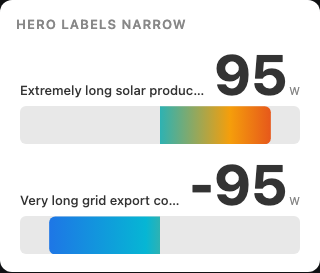
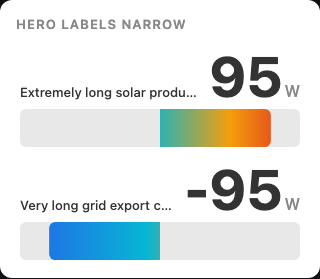
Improve hero value fitting and resize behavior

diff --git a/src/card/SensorBarCard.js b/src/card/SensorBarCard.js
@@ -1545,21 +1545,32 @@ _getAboveTargetLayerGeometry(targetPct = null) {
           font-variant-numeric: tabular-nums;
         }
         .hero-line {
-          --sbcp-hero-min-value-size: 13px;
+          --sbcp-hero-min-value-size: 10px;
           min-width: 0;
           margin-bottom: 0;
         }
         .hero-header {
           display: grid;
-          grid-template-columns: minmax(0, 1fr) auto;
+          grid-template-columns: minmax(0, 1fr) minmax(0, auto);
           align-items: baseline;
           column-gap: var(--sbcp-main-gap);
           min-width: 0;
+          overflow: hidden;
           margin-bottom: clamp(2px, calc(var(--sbcp-row-height) * 0.08), 4px);
         }
         .hero-header[data-hide-name="true"] .hero-label,
         .hero-header[data-priority-hide-name="true"] .hero-label {
           display: none;
+        }
+        .hero-header[data-hide-name="true"],
+        .hero-header[data-priority-hide-name="true"] {
+          grid-template-columns: minmax(0, 1fr);
+        }
+        .hero-header[data-hide-name="true"] .hero-value,
+        .hero-header[data-priority-hide-name="true"] .hero-value {
+          grid-column: 1 / -1;
+          justify-self: stretch;
+          width: 100%;
         }
         .hero-label {
           min-width: 0;
@@ -1569,13 +1580,13 @@ _getAboveTargetLayerGeometry(targetPct = null) {
           line-height: 1.15;
         }
         .hero-value {
-          min-width: max-content;
+          min-width: 0;
           max-width: 100%;
           display: inline-flex;
           align-items: baseline;
           justify-content: flex-end;
           justify-self: end;
-          overflow: visible;
+          overflow: hidden;
           font-size: 56px;
           font-size: clamp(var(--sbcp-hero-min-value-size), calc(var(--sbcp-row-height) + 18px), 56px);
           font-weight: 700;
@@ -1596,15 +1607,31 @@ _getAboveTargetLayerGeometry(targetPct = null) {
         .hero-line[data-hero-density="compressed"] .hero-value {
           font-size: clamp(var(--sbcp-hero-min-value-size), calc(var(--sbcp-row-height) + 2px), 24px);
         }
+        .hero-line[data-hero-density="xs"] .hero-value {
+          font-size: clamp(var(--sbcp-hero-min-value-size), calc(var(--sbcp-row-height) - 10px), 16px);
+        }
+        .hero-line[data-hero-value-fit="tight"] .hero-value {
+          font-size: clamp(var(--sbcp-hero-min-value-size), calc(var(--sbcp-row-height) - 4px), 22px);
+        }
+        .hero-line[data-hero-value-fit="minimum"] .hero-value {
+          font-size: clamp(9px, calc(var(--sbcp-row-height) - 14px), 15px);
+        }
+        .hero-line[data-hero-value-fit="hidden"] .hero-value {
+          display: none;
+        }
+        .hero-line[data-hide-hero-unit="true"] .hero-value .unit-group {
+          display: none;
+        }
         .hero-value .value-right-text {
           display: inline-flex;
-          flex: 0 0 auto;
+          flex: 1 1 auto;
           justify-content: flex-end;
           gap: 4px;
           align-items: baseline;
-          width: auto;
+          width: 100%;
+          min-width: 0;
           max-width: 100%;
-          overflow: visible;
+          overflow: hidden;
           text-overflow: clip;
           white-space: nowrap;
         }
@@ -1612,8 +1639,9 @@ _getAboveTargetLayerGeometry(targetPct = null) {
           gap: 2px;
         }
         .hero-value .value-right-number {
-          flex: 0 0 auto;
-          overflow: visible;
+          flex: 0 1 auto;
+          min-width: 0;
+          overflow: hidden;
           text-overflow: clip;
           white-space: nowrap;
           line-height: 0.95;
@@ -1626,16 +1654,12 @@ _getAboveTargetLayerGeometry(targetPct = null) {
           text-overflow: clip;
         }
         .hero-value .unit {
-          font-size: max(16px, 0.5em);
+          font-size: clamp(10px, 0.42em, 16px);
           font-weight: 500;
           color: var(--secondary-text-color, #888);
           line-height: 1;
           overflow: visible;
           text-overflow: clip;
-        }
-        .hero-header[data-hide-name="true"] .hero-value,
-        .hero-header[data-priority-hide-name="true"] .hero-value {
-          max-width: 100%;
         }
         /* ── Shared marker base ── */
         .peak-marker, .target-marker {
@@ -1779,8 +1803,7 @@ _getAboveTargetLayerGeometry(targetPct = null) {
         }
         .value-right .unit-group,
         .top-right-value .unit-group,
-        .above-bar-label-value .unit-group,
-        .hero-value .unit-group {
+        .above-bar-label-value .unit-group {
           flex: 0 1 auto;
           display: inline-flex;
           align-items: baseline;
@@ -1791,8 +1814,7 @@ _getAboveTargetLayerGeometry(targetPct = null) {
         }
         .value-right .unit,
         .top-right-value .unit,
-        .above-bar-label-value .unit,
-        .hero-value .unit {
+        .above-bar-label-value .unit {
           flex: 0 1 auto;
           min-width: 0;
           display: inline-block;
@@ -1843,7 +1865,7 @@ _getAboveTargetLayerGeometry(targetPct = null) {
     this._disconnectResizeObserver();
     this._resizeObserver = new ResizeObserver(() => {
       this._applyCompactTier();
-      this._runPostLayoutPasses();
+      this._schedulePostLayoutDensityPass();
     });
 
     const surface = this.shadowRoot.querySelector('ha-card');
@@ -1851,6 +1873,7 @@ _getAboveTargetLayerGeometry(targetPct = null) {
     if (surface && card) {
       this._applyCompactTier();
       this._resizeObserver.observe(surface);
+      this._resizeObserver.observe(this);
     }
     this._update();
     this._schedulePostLayoutDensityPass();
@@ -2056,18 +2079,107 @@ _getAboveTargetLayerGeometry(targetPct = null) {
       if (!label) return;
       const width = label.getBoundingClientRect().width;
       let density = 'normal';
-      if (width < 110) density = 'compressed';
+      if (width < 90) density = 'xs';
+      else if (width < 110) density = 'compressed';
       else if (width < 150) density = 'dense';
       else if (width < 210) density = 'tight';
       else if (width < 280) density = 'compact';
       if (aboveLine.classList.contains('hero-line')) {
         aboveLine.dataset.heroDensity = density;
-        label.dataset.hideName = density === 'dense' || density === 'compressed' ? 'true' : 'false';
-        aboveLine.dataset.hideHeroIcon = density === 'compressed' ? 'true' : 'false';
+        label.dataset.hideName = density === 'dense' || density === 'compressed' || density === 'xs' ? 'true' : 'false';
+        aboveLine.dataset.hideHeroIcon = density === 'compressed' || density === 'xs' ? 'true' : 'false';
         return;
       }
       aboveLine.dataset.aboveDensity = density;
       label.dataset.hideName = density === 'dense' || density === 'compressed' ? 'true' : 'false';
+    });
+  }
+
+  _measureHeroValueWidth(heroLine, valueEl, valueFit = 'normal', hideUnit = false) {
+    const layer = this.shadowRoot?.querySelector('.measure-layer');
+    if (!layer || !heroLine || !valueEl) return 0;
+
+    const display = this._decodeDataAttr(valueEl.dataset.display || valueEl.textContent || '');
+    const unit = this._decodeDataAttr(valueEl.dataset.unit || '');
+    if (!display) return 0;
+
+    const wrapper = document.createElement('div');
+    wrapper.className = 'hero-line';
+    wrapper.dataset.heroDensity = heroLine.dataset.heroDensity || 'normal';
+    wrapper.dataset.heroValueFit = valueFit;
+    wrapper.dataset.hideHeroUnit = hideUnit ? 'true' : 'false';
+    wrapper.style.display = 'inline-block';
+
+    const measureValue = document.createElement('span');
+    measureValue.className = 'hero-value';
+    measureValue.innerHTML = this._formatRightValueMarkup(display, unit, hideUnit);
+    measureValue.style.display = 'inline-flex';
+    measureValue.style.flex = '0 0 auto';
+    measureValue.style.width = 'auto';
+    measureValue.style.maxWidth = 'none';
+    measureValue.style.overflow = 'visible';
+
+    wrapper.appendChild(measureValue);
+    layer.replaceChildren(wrapper);
+
+    const text = measureValue.querySelector('.value-right-text');
+    return Math.max(
+      Math.ceil(measureValue.getBoundingClientRect?.().width ?? 0),
+      Math.ceil(measureValue.scrollWidth || 0),
+      Math.ceil(text?.getBoundingClientRect?.().width ?? text?.scrollWidth ?? 0),
+    );
+  }
+
+  _applyHeroValueFit() {
+    if (!this.shadowRoot) return;
+    this.shadowRoot.querySelectorAll('.hero-line').forEach(heroLine => {
+      const headerEl = heroLine.querySelector('.hero-header');
+      const labelEl = heroLine.querySelector('.hero-label');
+      const valueEl = heroLine.querySelector('.hero-value');
+      const unitGroup = heroLine.querySelector('.unit-group');
+      if (!headerEl || !valueEl) return;
+
+      heroLine.dataset.hideHeroUnit = 'false';
+      heroLine.dataset.heroValueFit = 'normal';
+
+      const headerWidth = Math.floor(headerEl.getBoundingClientRect?.().width ?? 0);
+      if (!this._isReliableWidth(headerWidth, 8)) {
+        this._schedulePostLayoutDensityPass();
+        return;
+      }
+
+      const labelHidden = headerEl.dataset.hideName === 'true' || headerEl.dataset.priorityHideName === 'true';
+      const labelWidth = !labelHidden && labelEl
+        ? Math.ceil(labelEl.getBoundingClientRect?.().width ?? 0)
+        : 0;
+      const gap = !labelHidden && labelEl ? this._getNumericStyleValue(headerEl, 'column-gap', 0) : 0;
+      const availableWidth = Math.max(0, headerWidth - labelWidth - gap - 4);
+
+      const hasUnit = !!unitGroup && unitGroup.textContent.trim().length > 0;
+
+      if (!this._isReliableWidth(availableWidth, 8)) {
+        heroLine.dataset.hideHeroUnit = hasUnit ? 'true' : 'false';
+        heroLine.dataset.heroValueFit = 'minimum';
+        this._schedulePostLayoutDensityPass();
+        return;
+      }
+
+      if (this._measureHeroValueWidth(heroLine, valueEl, 'normal', false) <= availableWidth) return;
+
+      heroLine.dataset.heroValueFit = 'tight';
+      if (this._measureHeroValueWidth(heroLine, valueEl, 'tight', false) <= availableWidth) return;
+
+      heroLine.dataset.heroValueFit = 'minimum';
+      if (this._measureHeroValueWidth(heroLine, valueEl, 'minimum', false) <= availableWidth) return;
+
+      if (hasUnit) {
+        heroLine.dataset.hideHeroUnit = 'true';
+        heroLine.dataset.heroValueFit = 'minimum';
+        if (this._measureHeroValueWidth(heroLine, valueEl, 'minimum', true) <= availableWidth) return;
+      }
+
+      heroLine.dataset.hideHeroUnit = hasUnit ? 'true' : 'false';
+      heroLine.dataset.heroValueFit = 'hidden';
     });
   }
 
@@ -2658,6 +2770,7 @@ _getAboveTargetLayerGeometry(targetPct = null) {
       this._applyRowDensity();
       this._applyLeftModeDensity();
       this._applyAboveLabelDensity();
+      this._applyHeroValueFit();
       this._applyInsideLabelDensity();
       this._applyValueWidthReservation();
 